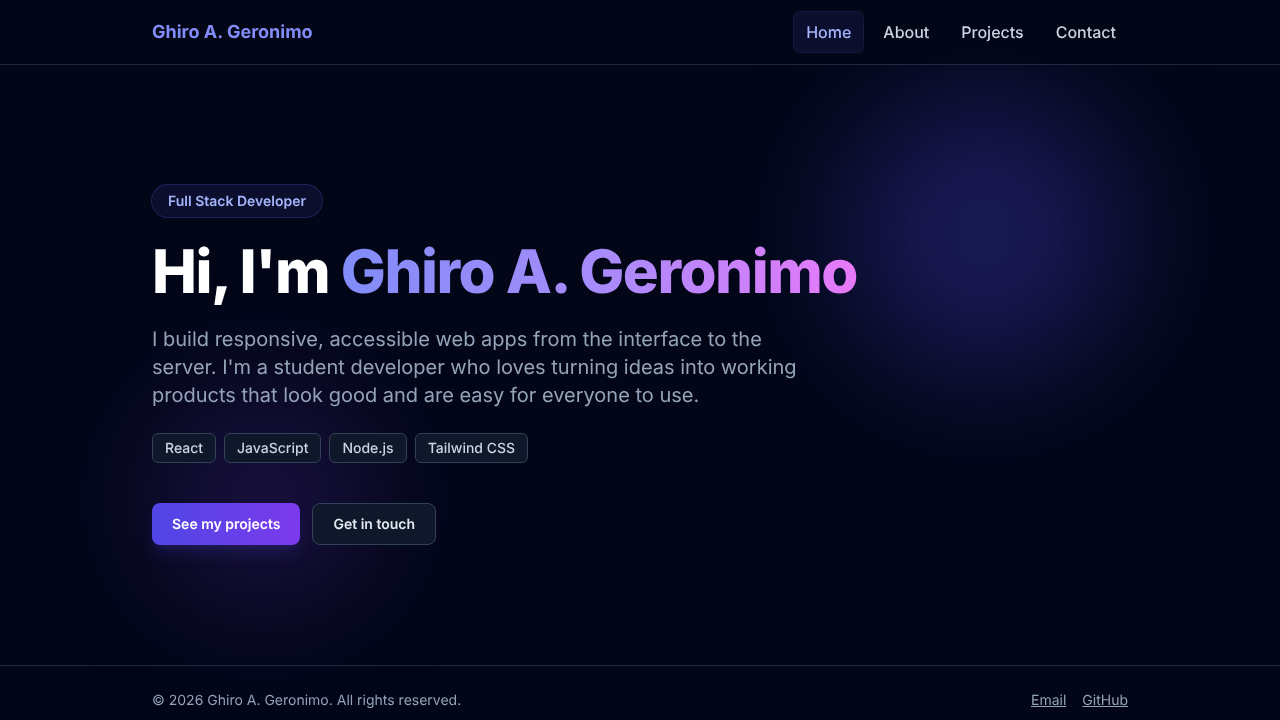
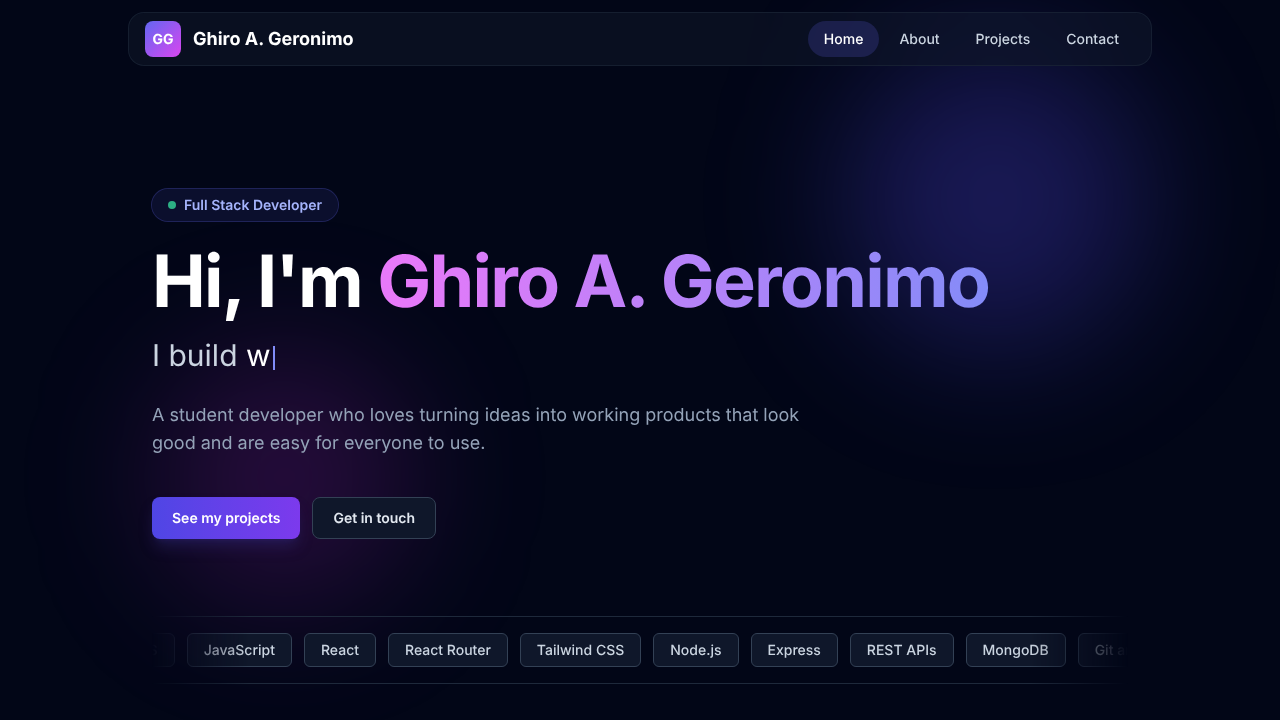
Add files via upload

diff --git a/src/pages/Home.jsx b/src/pages/Home.jsx
@@ -1,40 +1,76 @@
 import { Link } from 'react-router-dom'
 import PageTitle from '../components/PageTitle.jsx'
+import ProjectCard from '../components/ProjectCard.jsx'
+import Reveal from '../components/Reveal.jsx'
+import useTypewriter from '../components/useTypewriter.js'
 import { profile } from '../data/profile.js'
+import { skills } from '../data/skills.js'
+import { projects } from '../data/projects.js'
 
-const stack = ['React', 'JavaScript', 'Node.js', 'Tailwind CSS']
+const words = ['web apps.', 'REST APIs.', 'responsive interfaces.', 'full stack projects.']
+const tech = skills.flatMap((g) => g.items)
 
 export default function Home() {
+  const typed = useTypewriter(words)
+
   return (
-    <section className="relative py-8 sm:py-16">
+    <>
       <PageTitle />
-      <div aria-hidden="true" className="pointer-events-none absolute -top-8 right-0 h-72 w-72 rounded-full bg-indigo-600/30 blur-3xl" />
-      <div aria-hidden="true" className="pointer-events-none absolute bottom-0 left-0 h-56 w-56 rounded-full bg-violet-600/20 blur-3xl" />
-      <div className="relative">
-        <p className="inline-block rounded-full bg-indigo-500/10 px-4 py-1.5 text-sm font-semibold text-indigo-300 ring-1 ring-indigo-500/30">
-          {profile.role}
-        </p>
-        <h1 className="mt-6 text-4xl font-extrabold tracking-tight text-white sm:text-6xl">
-          Hi, I&apos;m{' '}
-          <span className="bg-gradient-to-r from-indigo-400 via-violet-400 to-fuchsia-400 bg-clip-text text-transparent">
-            {profile.name}
-          </span>
-        </h1>
-        <p className="mt-6 max-w-2xl text-lg text-slate-400 sm:text-xl">
-          I build responsive, accessible web apps from the interface to the server.
-          I&apos;m a student developer who loves turning ideas into working products
-          that look good and are easy for everyone to use.
-        </p>
-        <ul className="mt-6 flex flex-wrap gap-2" aria-label="Main technologies">
-          {stack.map((t) => (
-            <li key={t} className="rounded-md border border-slate-700 bg-slate-900 px-3 py-1 text-sm font-medium text-slate-300">{t}</li>
+      <section className="relative flex min-h-[70vh] flex-col justify-center py-8">
+        <div aria-hidden="true" className="pointer-events-none absolute -top-10 right-0 h-72 w-72 animate-float rounded-full bg-indigo-600/30 blur-3xl" />
+        <div aria-hidden="true" className="pointer-events-none absolute bottom-0 left-0 h-60 w-60 animate-float rounded-full bg-fuchsia-600/20 blur-3xl [animation-delay:-4s]" />
+        <div className="relative">
+          <p className="inline-flex items-center gap-2 rounded-full bg-indigo-500/10 px-4 py-1.5 text-sm font-semibold text-indigo-300 ring-1 ring-indigo-500/30">
+            <span className="h-2 w-2 animate-pulse rounded-full bg-emerald-400" aria-hidden="true" />
+            {profile.role}
+          </p>
+          <h1 className="mt-6 text-5xl font-bold tracking-tight text-white sm:text-7xl">
+            Hi, I&apos;m <br className="sm:hidden" />
+            <span className="animate-gradient bg-gradient-to-r from-indigo-400 via-fuchsia-400 to-indigo-400 bg-[length:200%_auto] bg-clip-text text-transparent">{profile.name}</span>
+          </h1>
+          <p className="sr-only">I build web apps, REST APIs and responsive interfaces.</p>
+          <p aria-hidden="true" className="mt-5 min-h-[2.5rem] font-display text-2xl text-slate-300 sm:text-3xl">
+            I build <span className="text-white">{typed}</span><span className="ml-0.5 inline-block h-6 w-0.5 translate-y-1 animate-blink bg-indigo-400" />
+          </p>
+          <p className="mt-6 max-w-2xl text-lg text-slate-400">
+            A student developer who loves turning ideas into working products that look good and are easy for everyone to use.
+          </p>
+          <div className="mt-10 flex flex-wrap gap-3">
+            <Link to="/projects" className="btn btn-primary">See my projects</Link>
+            <Link to="/contact" className="btn btn-secondary">Get in touch</Link>
+          </div>
+        </div>
+      </section>
+
+      <div className="overflow-hidden border-y border-slate-800 py-4 [mask-image:linear-gradient(to_right,transparent,black_10%,black_90%,transparent)]">
+        <ul className="flex w-max animate-marquee hover:[animation-play-state:paused]" aria-label="Technologies I use">
+          {[...tech, ...tech].map((t, i) => (
+            <li key={i} aria-hidden={i >= tech.length} className="mr-3 rounded-md border border-slate-700 bg-slate-900 px-4 py-1.5 font-display text-sm font-medium text-slate-300">{t}</li>
           ))}
         </ul>
-        <div className="mt-10 flex flex-wrap gap-3">
-          <Link to="/projects" className="btn btn-primary">See my projects</Link>
-          <Link to="/contact" className="btn btn-secondary">Get in touch</Link>
-        </div>
       </div>
-    </section>
+
+      <section className="mt-20">
+        <Reveal>
+          <div className="flex flex-wrap items-end justify-between gap-3">
+            <h2 className="text-3xl font-bold text-white sm:text-4xl">Featured projects</h2>
+            <Link to="/projects" className="font-medium text-indigo-400 underline hover:text-indigo-300">View all projects</Link>
+          </div>
+        </Reveal>
+        <div className="mt-8 grid gap-6 sm:grid-cols-2">
+          {projects.slice(0, 2).map((project, i) => (
+            <Reveal key={project.title} delay={i * 120}><ProjectCard {...project} /></Reveal>
+          ))}
+        </div>
+      </section>
+
+      <Reveal className="mt-20">
+        <section className="rounded-2xl border border-indigo-500/30 bg-gradient-to-br from-indigo-600/20 to-fuchsia-600/10 p-8 text-center sm:p-12">
+          <h2 className="text-3xl font-bold text-white sm:text-4xl">Let&apos;s build something together</h2>
+          <p className="mx-auto mt-3 max-w-xl text-slate-300">Have an idea, a project or an opportunity? I&apos;d love to hear about it.</p>
+          <a href={`mailto:${profile.email}`} className="btn btn-primary mt-6">Email me</a>
+        </section>
+      </Reveal>
+    </>
   )
 }

diff --git a/src/components/Header.jsx b/src/components/Header.jsx
@@ -1,5 +1,5 @@
-import { useState } from 'react'
-import { Link, NavLink } from 'react-router-dom'
+import { useEffect, useState } from 'react'
+import { Link, NavLink, useLocation } from 'react-router-dom'
 import { profile } from '../data/profile.js'
 
 const links = [
@@ -9,45 +9,66 @@ const links = [
   { to: '/contact', label: 'Contact' },
 ]
 
-const linkClass = ({ isActive }) =>
-  `block rounded-md px-3 py-2 text-base font-medium transition-colors ${
-    isActive ? 'bg-indigo-500/10 ring-1 ring-indigo-500/20 text-indigo-300' : 'text-slate-300 hover:bg-slate-800'
+const desktopClass = ({ isActive }) =>
+  `relative block rounded-full px-4 py-2 text-sm font-medium transition-colors after:absolute after:inset-x-4 after:bottom-1 after:h-px after:origin-left after:scale-x-0 after:bg-indigo-400 after:transition-transform hover:after:scale-x-100 ${
+    isActive ? 'bg-indigo-500/20 text-white' : 'text-slate-300 hover:text-white'
   }`
 
 export default function Header() {
   const [open, setOpen] = useState(false)
-  const close = () => setOpen(false)
+  const [scrolled, setScrolled] = useState(false)
+  const { pathname } = useLocation()
+
+  useEffect(() => setOpen(false), [pathname])
+
+  useEffect(() => {
+    const onScroll = () => setScrolled(window.scrollY > 10)
+    onScroll()
+    window.addEventListener('scroll', onScroll, { passive: true })
+    return () => window.removeEventListener('scroll', onScroll)
+  }, [])
+
+  useEffect(() => {
+    const onKey = (e) => e.key === 'Escape' && setOpen(false)
+    document.body.style.overflow = open ? 'hidden' : ''
+    window.addEventListener('keydown', onKey)
+    return () => { document.body.style.overflow = ''; window.removeEventListener('keydown', onKey) }
+  }, [open])
 
   return (
-    <header className="sticky top-0 z-40 border-b border-slate-800 bg-slate-950/80 backdrop-blur">
-      <div className="mx-auto flex max-w-5xl items-center justify-between px-4 py-3 sm:px-6">
-        <Link to="/" onClick={close} className="text-lg font-bold text-indigo-400">
-          {profile.name}
+    <header className="fixed inset-x-0 top-0 z-40 px-3 pt-3 sm:px-6">
+      <div className={`mx-auto flex max-w-5xl items-center justify-between rounded-2xl border px-4 py-2 backdrop-blur-xl transition-all duration-300 ${scrolled ? 'border-slate-700 bg-slate-900/90 shadow-xl shadow-black/30' : 'border-slate-800/60 bg-slate-900/50'}`}>
+        <Link to="/" className="group flex items-center gap-3 font-display text-lg font-bold text-white">
+          <span className="flex h-9 w-9 items-center justify-center rounded-lg bg-gradient-to-br from-indigo-500 to-fuchsia-500 text-sm transition-transform duration-300 group-hover:rotate-12">GG</span>
+          <span className="hidden sm:inline">{profile.name}</span>
         </Link>
 
-        <button
-          type="button"
-          className="rounded-md p-2 text-slate-300 hover:bg-slate-800 md:hidden"
-          aria-expanded={open}
-          aria-controls="main-nav"
-          aria-label={open ? 'Close menu' : 'Open menu'}
-          onClick={() => setOpen((o) => !o)}
-        >
+        <nav aria-label="Main" className="hidden md:block">
+          <ul className="flex items-center gap-1">
+            {links.map(({ to, label, end }) => (
+              <li key={to}><NavLink to={to} end={end} className={desktopClass}>{label}</NavLink></li>
+            ))}
+          </ul>
+        </nav>
+
+        <button type="button" className="relative z-50 rounded-lg p-2 text-slate-200 hover:bg-slate-800 md:hidden" aria-expanded={open} aria-controls="mobile-nav" aria-label={open ? 'Close menu' : 'Open menu'} onClick={() => setOpen((o) => !o)}>
           <svg width="24" height="24" viewBox="0 0 24 24" fill="none" stroke="currentColor" strokeWidth="2" strokeLinecap="round" aria-hidden="true">
-            {open ? <path d="M6 6l12 12M18 6L6 18" /> : <path d="M4 6h16M4 12h16M4 18h16" />}
+            {open ? <path d="M6 6l12 12M18 6L6 18" /> : <path d="M4 7h16M4 12h16M4 17h16" />}
           </svg>
         </button>
+      </div>
 
-        <nav id="main-nav" aria-label="Main" className={`${open ? 'block' : 'hidden'} absolute left-0 top-full w-full border-b border-slate-800 bg-slate-900 px-4 pb-3 md:static md:block md:w-auto md:border-0 md:bg-transparent md:p-0`}>
-          <ul className="flex flex-col gap-1 md:flex-row md:gap-2">
-            {links.map(({ to, label, end }) => (
-              <li key={to}>
-                <NavLink to={to} end={end} onClick={close} className={linkClass}>{label}</NavLink>
+      {open && (
+        <nav id="mobile-nav" aria-label="Mobile" className="fixed inset-0 -z-10 flex flex-col justify-center bg-slate-950/95 px-8 backdrop-blur-xl md:hidden">
+          <ul className="space-y-2">
+            {links.map(({ to, label, end }, i) => (
+              <li key={to} className="animate-fade-up" style={{ animationDelay: `${i * 80}ms` }}>
+                <NavLink to={to} end={end} className={({ isActive }) => `block py-3 font-display text-4xl font-bold ${isActive ? 'text-indigo-400' : 'text-white'}`}>{label}</NavLink>
               </li>
             ))}
           </ul>
         </nav>
-      </div>
+      )}
     </header>
   )
 }

diff --git a/src/index.css b/src/index.css
@@ -5,15 +5,19 @@
 @layer base {
   html { scroll-behavior: smooth; }
   body { @apply bg-slate-950 font-sans text-slate-300 antialiased; }
+  h1, h2, h3 { @apply font-display; }
   :focus-visible { @apply outline-2 outline-offset-2 outline-indigo-400; }
 }
 
 @layer components {
-  .btn {
-    @apply inline-flex items-center justify-center rounded-lg px-5 py-2.5 text-sm font-semibold transition;
-  }
-  .btn-primary {
-    @apply bg-gradient-to-r from-indigo-600 to-violet-600 text-white shadow-lg shadow-indigo-900/40 hover:from-indigo-500 hover:to-violet-500;
-  }
-  .btn-secondary { @apply border border-slate-700 bg-slate-900 text-slate-200 hover:bg-slate-800; }
+  .btn { @apply inline-flex items-center justify-center rounded-lg px-5 py-2.5 text-sm font-semibold transition duration-200 hover:-translate-y-0.5; }
+  .btn-primary { @apply bg-gradient-to-r from-indigo-600 to-violet-600 text-white shadow-lg shadow-indigo-900/40 hover:from-indigo-500 hover:to-violet-500 hover:shadow-indigo-500/30; }
+  .btn-secondary { @apply border border-slate-700 bg-slate-900 text-slate-200 hover:border-indigo-400 hover:bg-slate-800; }
+  .reveal { opacity: 0; transform: translateY(28px); transition: opacity 0.7s ease, transform 0.7s ease; }
+  .reveal.is-visible { opacity: 1; transform: none; }
+}
+
+@media (prefers-reduced-motion: reduce) {
+  *, *::before, *::after { animation: none !important; transition: none !important; scroll-behavior: auto !important; }
+  .reveal { opacity: 1; transform: none; }
 }

diff --git a/tailwind.config.js b/tailwind.config.js
@@ -5,9 +5,24 @@ export default {
     extend: {
       fontFamily: {
         sans: ['Inter', 'ui-sans-serif', 'system-ui', 'Segoe UI', 'Roboto', 'sans-serif'],
+        display: ['"Space Grotesk"', 'Inter', 'ui-sans-serif', 'system-ui', 'sans-serif'],
       },
       colors: {
         brand: { 50: '#eef2ff', 100: '#e0e7ff', 600: '#4f46e5', 700: '#4338ca', 800: '#3730a3' },
+      },
+      keyframes: {
+        fadeUp: { '0%': { opacity: 0, transform: 'translateY(20px)' }, '100%': { opacity: 1, transform: 'none' } },
+        float: { '0%,100%': { transform: 'translate(0,0) scale(1)' }, '50%': { transform: 'translate(20px,-30px) scale(1.1)' } },
+        gradient: { '0%,100%': { backgroundPosition: '0% 50%' }, '50%': { backgroundPosition: '100% 50%' } },
+        blink: { '0%,100%': { opacity: 1 }, '50%': { opacity: 0 } },
+        marquee: { '0%': { transform: 'translateX(0)' }, '100%': { transform: 'translateX(-50%)' } },
+      },
+      animation: {
+        'fade-up': 'fadeUp 0.7s ease-out both',
+        float: 'float 9s ease-in-out infinite',
+        gradient: 'gradient 6s ease infinite',
+        blink: 'blink 1s step-end infinite',
+        marquee: 'marquee 28s linear infinite',
       },
     },
   },

diff --git a/src/layouts/Layout.jsx b/src/layouts/Layout.jsx
@@ -1,9 +1,10 @@
-import { Outlet } from 'react-router-dom'
+import { Outlet, useLocation } from 'react-router-dom'
 import Header from '../components/Header.jsx'
 import Footer from '../components/Footer.jsx'
 import ScrollToTop from '../components/ScrollToTop.jsx'
 
 export default function Layout() {
+  const { pathname } = useLocation()
   return (
     <div className="flex min-h-screen flex-col overflow-x-hidden">
       <a href="#content" className="sr-only focus:not-sr-only focus:absolute focus:left-2 focus:top-2 focus:z-50 focus:rounded-md focus:bg-slate-900 focus:px-4 focus:py-2 focus:text-indigo-300">
@@ -11,7 +12,7 @@ export default function Layout() {
       </a>
       <ScrollToTop />
       <Header />
-      <main id="content" className="mx-auto w-full max-w-5xl flex-1 px-4 py-10 sm:px-6 sm:py-14">
+      <main id="content" key={pathname} className="mx-auto w-full max-w-5xl flex-1 animate-fade-up px-4 pb-14 pt-28 sm:px-6">
         <Outlet />
       </main>
       <Footer />

diff --git a/src/components/useTypewriter.js b/src/components/useTypewriter.js
@@ -1,0 +1,22 @@
+import { useEffect, useState } from 'react'
+
+export default function useTypewriter(words) {
+  const [index, setIndex] = useState(0)
+  const [text, setText] = useState('')
+  const [deleting, setDeleting] = useState(false)
+
+  useEffect(() => {
+    if (window.matchMedia('(prefers-reduced-motion: reduce)').matches) { setText(words[0]); return }
+    const word = words[index]
+    let delay = deleting ? 35 : 80
+    if (!deleting && text === word) delay = 1400
+    const timer = setTimeout(() => {
+      if (!deleting && text === word) setDeleting(true)
+      else if (deleting && text === '') { setDeleting(false); setIndex((index + 1) % words.length) }
+      else setText(deleting ? word.slice(0, text.length - 1) : word.slice(0, text.length + 1))
+    }, delay)
+    return () => clearTimeout(timer)
+  }, [text, deleting, index, words])
+
+  return text
+}

diff --git a/src/components/Reveal.jsx b/src/components/Reveal.jsx
@@ -1,0 +1,22 @@
+import { useEffect, useRef, useState } from 'react'
+
+export default function Reveal({ children, delay = 0, className = '' }) {
+  const ref = useRef(null)
+  const [visible, setVisible] = useState(false)
+
+  useEffect(() => {
+    const el = ref.current
+    if (!el || !('IntersectionObserver' in window)) { setVisible(true); return }
+    const observer = new IntersectionObserver(([entry]) => {
+      if (entry.isIntersecting) { setVisible(true); observer.disconnect() }
+    }, { threshold: 0.15 })
+    observer.observe(el)
+    return () => observer.disconnect()
+  }, [])
+
+  return (
+    <div ref={ref} style={{ transitionDelay: `${delay}ms` }} className={`reveal ${visible ? 'is-visible' : ''} ${className}`}>
+      {children}
+    </div>
+  )
+}

diff --git a/index.html b/index.html
@@ -6,6 +6,9 @@
     <meta name="viewport" content="width=device-width, initial-scale=1.0" />
     <meta name="description" content="Portfolio of Ghiro A. Geronimo, an aspiring Full Stack Developer building responsive websites with React and Tailwind CSS." />
     <meta name="theme-color" content="#4338ca" />
+    <link rel="preconnect" href="https://fonts.googleapis.com" />
+    <link rel="preconnect" href="https://fonts.gstatic.com" crossorigin />
+    <link href="https://fonts.googleapis.com/css2?family=Inter:wght@400;500;600;700&family=Space+Grotesk:wght@500;600;700&display=swap" rel="stylesheet" />
     <title>Ghiro A. Geronimo | Full Stack Developer</title>
   </head>
   <body>
